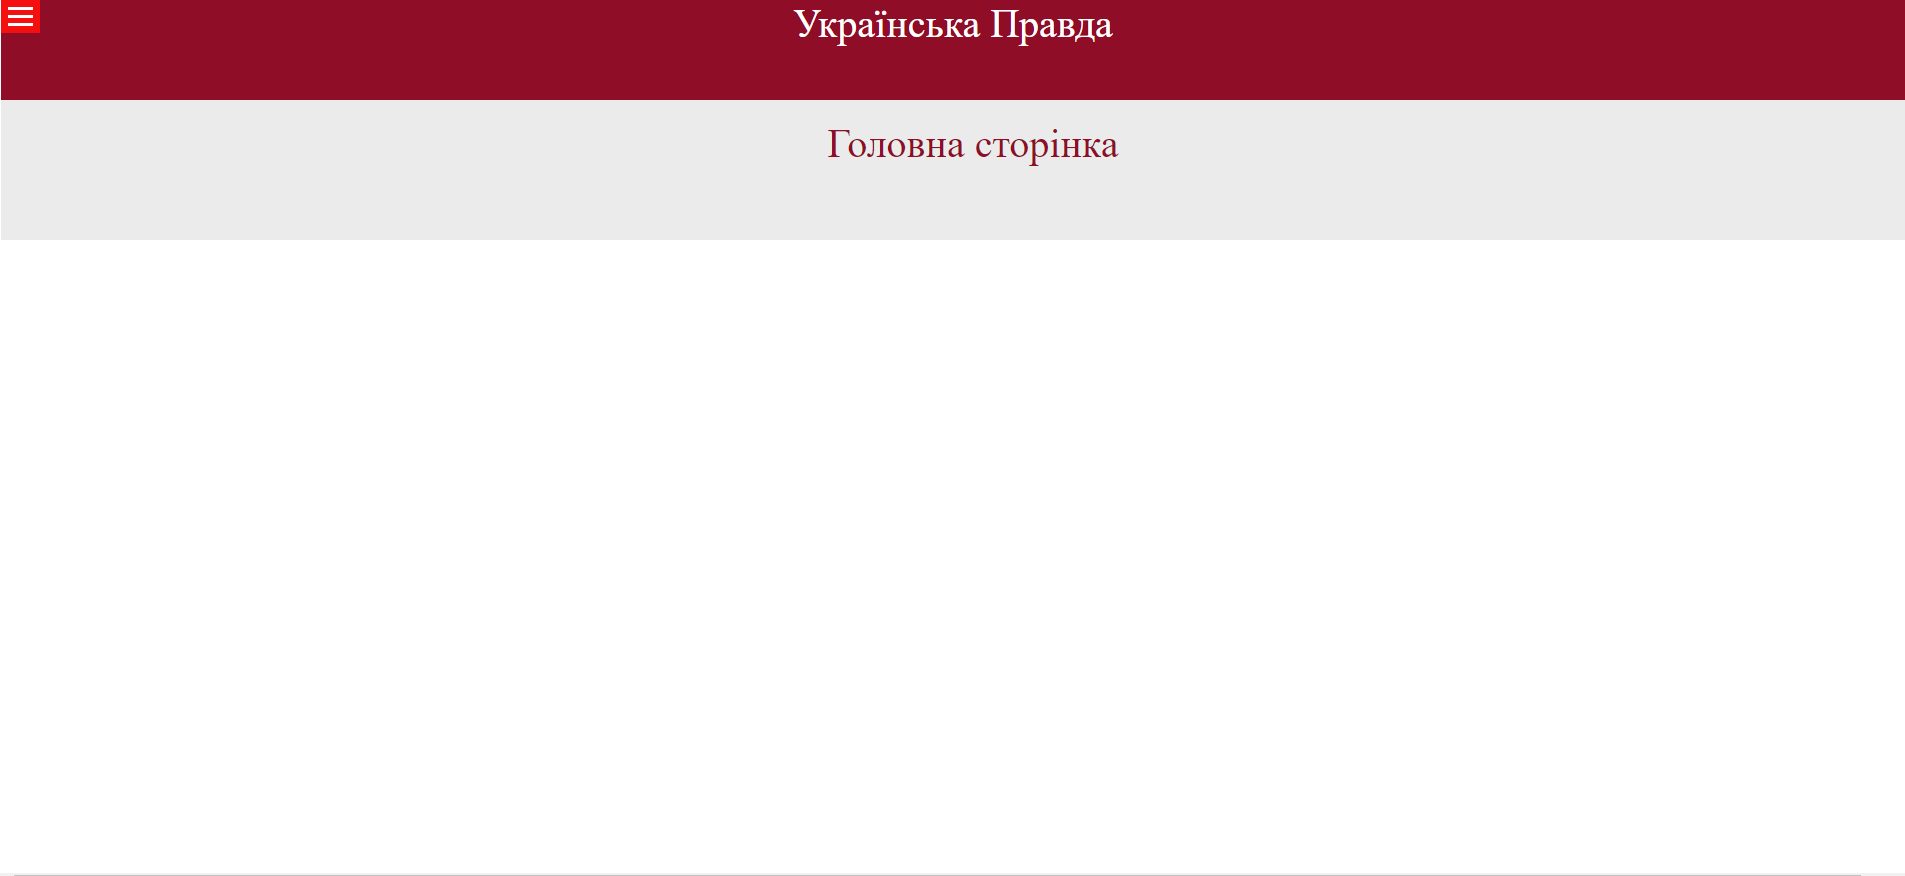
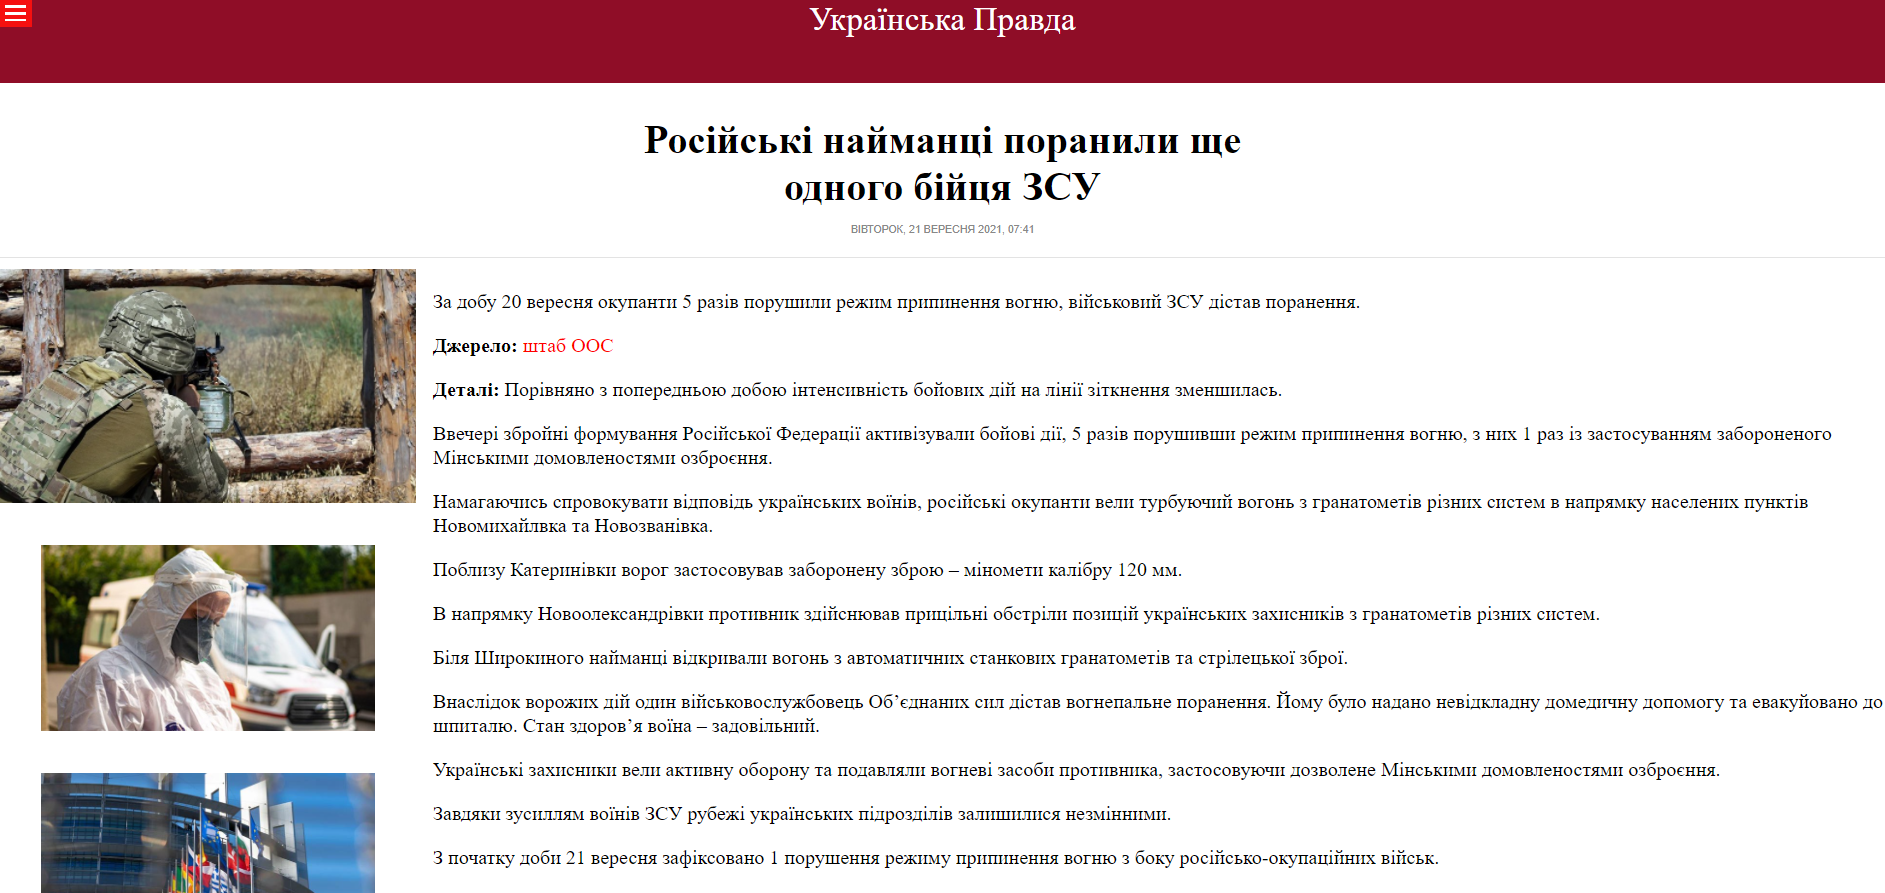
lab3 upd

diff --git a/lab3/html_code.html b/lab3/html_code.html
@@ -35,8 +35,51 @@
                 </div>
                 <div class="right-side">
                     <div id="info">
-                        &lthtml lang="uk"&gt<br>    &lthead&gt<br>        &lttitle&gtНовини України&lt/title&gt<br>        &ltlink rel="stylesheet" type="text/css" href="site-style.css"&gt<br>    &lt/head&gt<br>    &ltbody&gt<br>        &ltheader class="top-menu"&gt<br>            Українська Правда<br>        &lt/header&gt<br>        &ltdiv class="section-header top-menu"&gt<br>            Головна сторінка<br>        &lt/div&gt<br>        &ltinput type="checkbox" id="hmt" class="hidden-menu-ticker"&gt<br>        &ltlabel class="btn-menu" for="hmt"&gt<br>            &ltspan class="first"&gt&lt/span&gt<br>            &ltspan class="second"&gt&lt/span&gt<br>            &ltspan class="third"&gt&lt/span&gt<br>        &lt/label&gt<br>        &ltul class="hidden-menu"&gt<br>            &ltli&gt&lta href="index.html"&gtГоловна сторінка&lt/a&gt&lt/li&gt  <br>            &ltli&gt&lta href="news.html"&gtНовини&lt/a&gt&lt/li&gt  <br>            &ltli&gt&lta href="search.html"&gtПошук&lt/a&gt&lt/li&gt<br>            &ltli&gt&lta href="images.html"&gtПублікації&lt/a&gt&lt/li&gt  <br>            &ltli&gt&lta href="interview.html"&gtІнтерв’ю&lt/a&gt&lt/li&gt<br>            &ltli&gt&lta href="information.html"&gtІнформація про сайт&lt/a&gt&lt/li&gt <br>        &lt/ul&gt         <br>    &lt/body&gt<br>&lt/html&gt                    </div>
-                </div>
+                        &lthtml lang="uk"&gt
+                        <br>    &lthead&gt
+                        <br>        &lttitle&gtРосійські найманці поранили ще одного бійця ЗСУ&lt/title&gt
+                        <br>        &ltlink rel="stylesheet" type="text/css" href="site-style.css"&gt
+                        <br>    &lt/head&gt
+                        <br>    &ltbody&gt
+                        <br>        &ltheader class="top-menu"&gt
+                        <br>            Українська Правда
+                        <br>        &lt/header&gt
+                        <br>        &ltdiv class="main_content"&gt
+                        <br>            &ltdiv style="padding: 20px; background-color: white;"&gt&lt/div&gt
+                        <br>            &ltdiv style="font-size: 48px; font-weight: bold; text-align: center;"&gtРосійські найманці поранили ще&ltbr&gtодного бійця ЗСУ
+                        <br>            &lt/div&gt
+                        <br>            &ltdiv style="font: 0.8em/1.3em fira sans, Arial, sans-serif; text-transform: uppercase; color: #888; margin: 15px 0 15px 0; text-align: center;"&gtвівторок, 21 вересня 2021, 07:41
+                        <br>            &lt/div&gt
+                        <br>            &ltdiv style="padding-top: 10px;"&gt
+                        <br>                &ltdiv class="article_news_list"&gt
+                        <br>                    &ltdiv class="article_content"&gt
+                        <br>                        &ltimg src="1e6a2a3-23543.jpg" align="left" width="500px" alt="Схід"&gt
+                        <br>                        &lta href="https://www.pravda.com.ua/news/2021/10/12/7310248/" target="_blank"&gt&ltimg data-src="https://img.pravda.com/images/doc/e/4/e4e9f79-kovid400.jpg" width="400" height="224" src="https://img.pravda.com/images/doc/e/4/e4e9f79-kovid400.jpg" style="clear:left; margin: 50px;"&gt&lt/a&gt
+                        <br>                        &lta href="https://www.pravda.com.ua/news/2021/10/12/7310228/" target="_blank"&gt&ltimg width="400" height="224" src="93a0159-------.jpg" style="clear:left; margin-bottom: 50px; margin-left: 50px; margin-right: 50px; margin-top: 0;"&gt&lt/a&gt
+                        <br>                        &lta href="https://www.pravda.com.ua/news/2021/10/12/7310217/" target="_blank"&gt&ltimg width="400" height="224" src="%D0%B7%D0%B0%D0%B3%D1%80%D1%83%D0%B6%D0%B5%D0%BD%D0%BE.jpg" style="clear:left; margin-bottom: 50px; margin-left: 50px; margin-right: 50px; margin-top: 0;"&gt&lt/a&gt
+                        <br>                        &ltdiv style="padding-left: 520px; font-size: 24px; line-height: 1.2em;"&gt&ltp&gtЗа добу 20 вересня окупанти 5 разів порушили режим припинення вогню, військовий ЗСУ дістав поранення.&lt/p&gt &ltp&gt&ltstrong&gtДжерело: &lt/strong&gt&lta href="https://www.facebook.com/pressjfo.news/videos/4100969486693177" target="_blank" style="color:red; text-decoration:none;"&gtштаб ООС&lt/a&gt&lt/p&gt &ltp&gt&ltstrong&gtДеталі: &lt/strong&gtПорівняно з попередньою добою інтенсивність бойових дій на лінії зіткнення зменшилась.&lt/p&gt &ltp&gtВвечері збройні формування Російської Федерації активізували бойові дії, 5 разів порушивши режим припинення вогню, з них 1 раз із застосуванням забороненого Мінськими домовленостями озброєння.&lt/p&gt
+                        <br>                        &ltp&gtНамагаючись спровокувати відповідь українських воїнів, російські окупанти вели турбуючий вогонь з гранатометів різних систем в напрямку населених пунктів Новомихайлвка та Новозванівка.&lt/p&gt &ltp&gtПоблизу Катеринівки ворог застосовував заборонену зброю – міномети калібру 120 мм.&lt/p&gt &ltp&gtВ напрямку Новоолександрівки противник здійснював прицільні обстріли позицій українських захисників з гранатометів різних систем.&lt/p&gt &ltp&gtБіля Широкиного найманці відкривали вогонь з автоматичних станкових гранатометів та стрілецької зброї.&lt/p&gt &ltp&gtВнаслідок ворожих дій один військовослужбовець Об’єднаних сил дістав вогнепальне поранення. Йому було надано невідкладну домедичну допомогу та евакуйовано до шпиталю. Стан здоров’я воїна – задовільний.&lt/p&gt
+                        <br>                        &ltp&gtУкраїнські захисники вели активну оборону та подавляли вогневі засоби противника, застосовуючи дозволене Мінськими домовленостями озброєння.&lt/p&gt&ltp&gtЗавдяки зусиллям воїнів ЗСУ рубежі українських підрозділів залишилися незмінними.&lt/p&gt&ltp&gtЗ початку доби 21 вересня зафіксовано 1 порушення режиму припинення вогню з боку російсько-окупаційних військ.&lt/p&gt&ltp&gtВ районі населеного пункту Кам’янка противник застосував заборонені Мінськими домовленостями міномети 120 калібру.&lt/p&gt&ltp&gt&ltstrong&gtНагадаємо: &lt/strong&gt19 вересня окупанти на Донбасі 8 разів порушили режим припинення вогню, з них двічі – застосувавши заборонене Мінськими домовленостями озброєння. Відтак один військовослужбовець Об’єднаних сил &lta href="https://www.pravda.com.ua/news/2021/09/20/7307710/" target="_blank" style="color:red; text-decoration:none;"&gtдістав&lt/a&gt осколкові поранення.&lt/p&gt&lt/div&gt
+                        <br>                    &lt/div&gt          
+                        <br>                &lt/div&gt
+                        <br>            &lt/div&gt
+                        <br>        &lt/div&gt
+                        <br>        &ltinput type="checkbox" id="hmt" class="hidden-menu-ticker"&gt
+                        <br>        &ltlabel class="btn-menu" for="hmt"&gt
+                        <br>            &ltspan class="first"&gt&lt/span&gt
+                        <br>            &ltspan class="second"&gt&lt/span&gt
+                        <br>            &ltspan class="third"&gt&lt/span&gt
+                        <br>        &lt/label&gt
+                        <br>        &ltul class="hidden-menu"&gt
+                        <br>            &ltli&gt&lta href="index.html"&gtГоловна сторінка&lt/a&gt&lt/li&gt  
+                        <br>            &ltli&gt&lta href="news.html"&gtНовини&lt/a&gt&lt/li&gt  
+                        <br>            &ltli&gt&lta href="search.html"&gtПошук&lt/a&gt&lt/li&gt
+                        <br>            &ltli&gt&lta href="images.html"&gtПублікації&lt/a&gt&lt/li&gt  
+                        <br>            &ltli&gt&lta href="interview.html"&gtІнтерв’ю&lt/a&gt&lt/li&gt
+                        <br>            &ltli&gt&lta href="information.html"&gtІнформація про сайт&lt/a&gt&lt/li&gt
+                        <br>        &lt/ul&gt         
+                        <br>    &lt/body&gt
+                        <br>&lt/html&gt                </div>
             </div>
     </body>
 </html>
